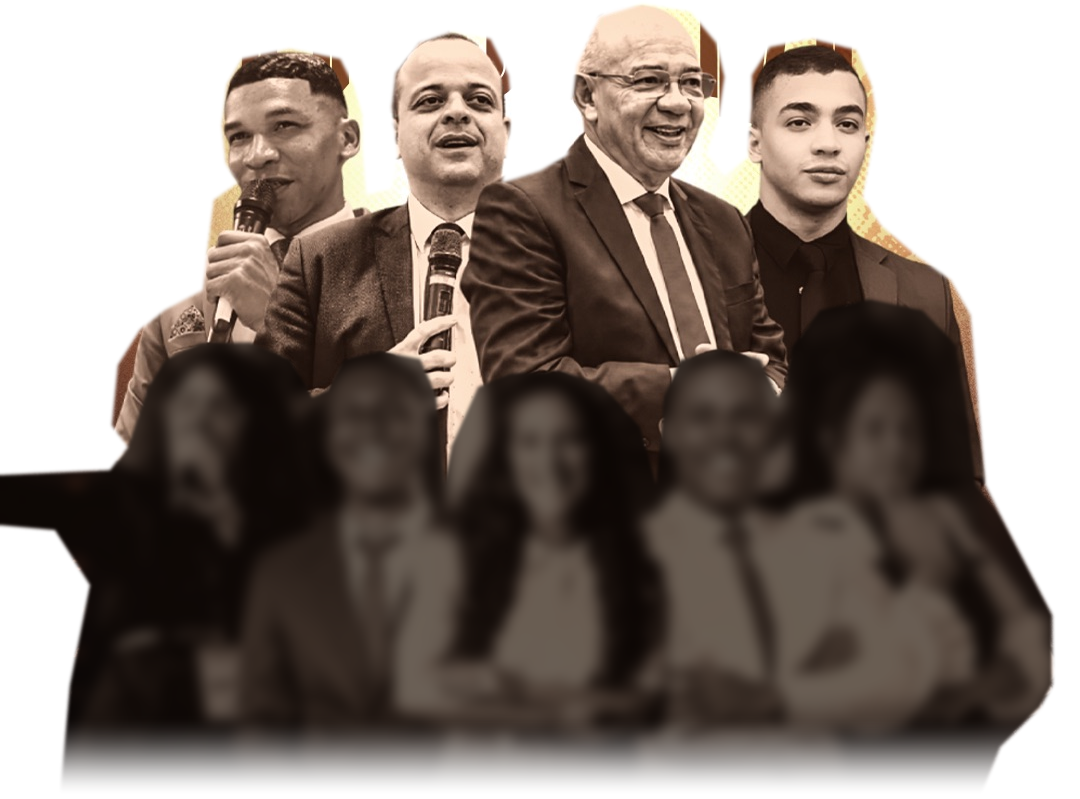
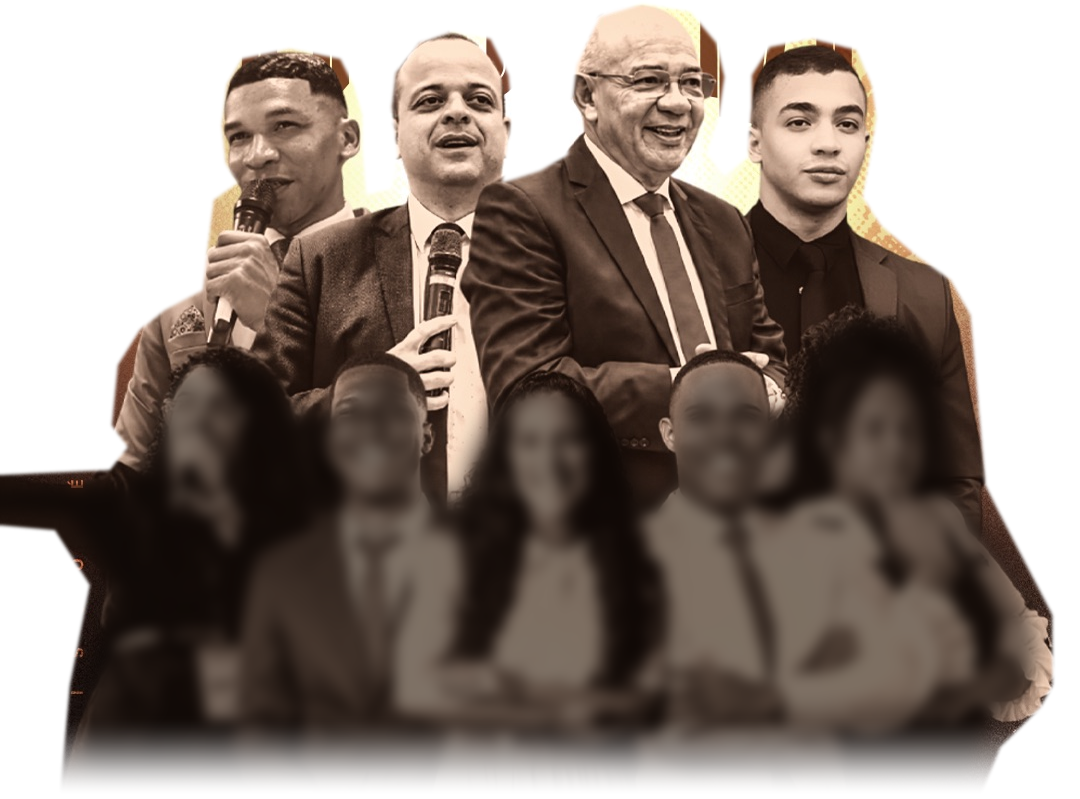
Vigília: corrige emenda no contorno da fileira da frente e exporta em yuv420p/bt709
Claude-Session: https://claude.ai/code/session_01M7k6mnnnKradfpkQ8GDmHx

diff --git a/scripts/separar-camadas.py b/scripts/separar-camadas.py
@@ -107,9 +107,12 @@ fade = fade * fade * (3 - 2 * fade)
 grupo_a = grupo * fade
 frente_a = np.minimum(frente, grupo) * fade
 
-# Atrás: a fileira da frente vira uma sombra (aparece como profundidade quando a frente se desloca).
-sombra = gauss(art, 6) * 0.42
-tras_rgb = art * (1 - frente[..., None]) + sombra * frente[..., None]
+# Atrás: perto do contorno da fileira da frente ficam os pixels originais (sem emenda visível
+# quando os planos se deslocam); só o miolo escurece em sombra, para dar profundidade.
+miolo = np.array(Image.fromarray((frente * 255).astype(np.uint8)).filter(ImageFilter.MinFilter(31))) / 255.0
+miolo = gauss(miolo.astype(np.float32), 8)
+sombra = gauss(art, 6) * 0.5
+tras_rgb = art * (1 - miolo[..., None]) + sombra * miolo[..., None]
 bb = [0, max(0, int(min(y for _, y in p["grupo"])) - 4), W, int(p["esmaecerAte"]) + 2]
 save_rgba("pessoas-tras.png", tras_rgb, grupo_a, bb)
 bf = [0, max(0, int(min(y for _, y in p["frente"])) - 4), W, int(p["esmaecerAte"]) + 2]
